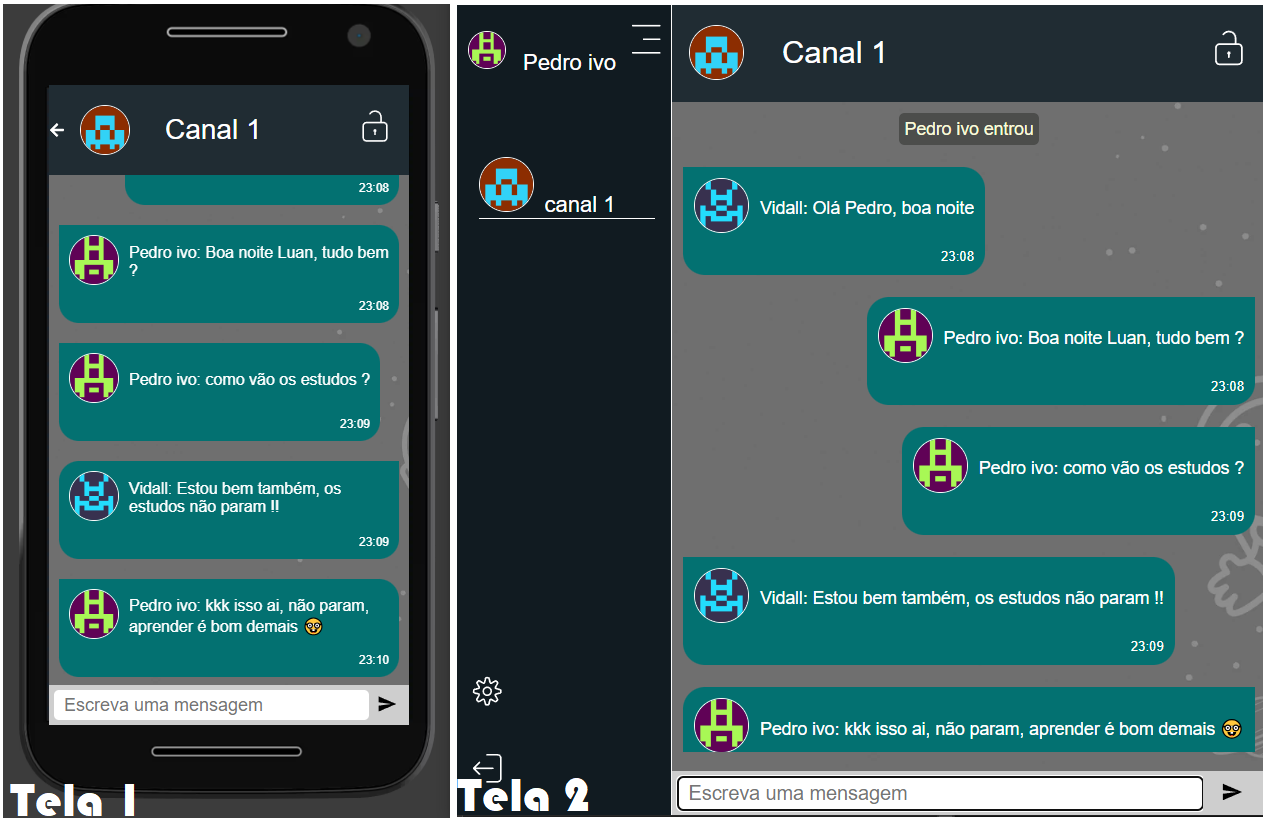
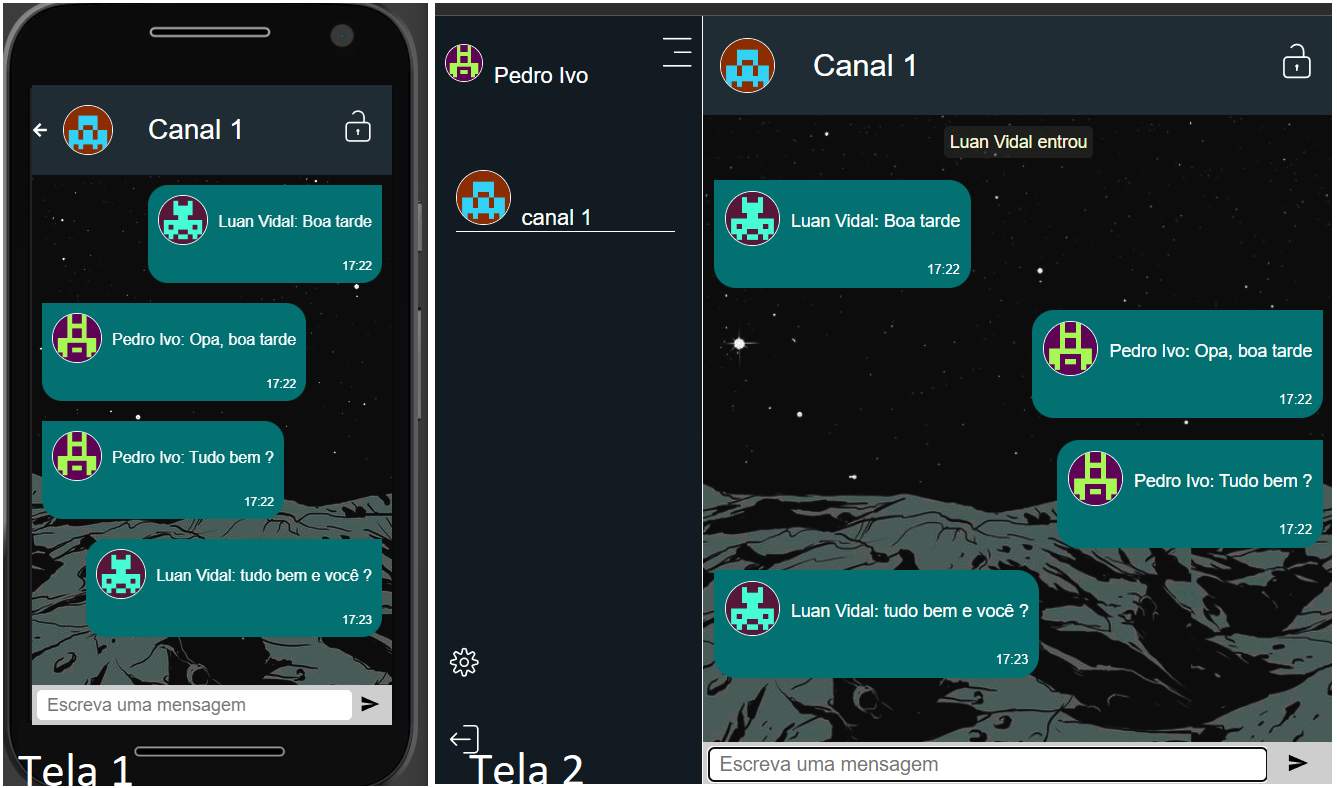
change background

diff --git a/src/Components/Chat/MessageScreen.css b/src/Components/Chat/MessageScreen.css
@@ -1,9 +1,9 @@
 .messageScreen {
   position: relative;
-  background-image: url('../../assets/fundoMessageScreen.webp');
-  background-size: cover;
+  background-image: url('../../assets/fundo-mod.png');
+  background-size: auto;
   background-position: center;
-  background-attachment: initial;
+  background-attachment: fixed;
 }
 
 .inputMessage {

diff --git a/src/Components/Login/Login.css b/src/Components/Login/Login.css
@@ -5,7 +5,7 @@
     justify-content: center;
     min-height: 100vh;
     min-width: 100vw;
-    background: linear-gradient(#366DAA, #1AC290, #72D6AA);
+    background: linear-gradient(#111B21, #202C33, #4A5D59);
     /* background-image: url("../../assets/fundoLogin.jpg");
     background-size: cover;
     background-position: center; */
